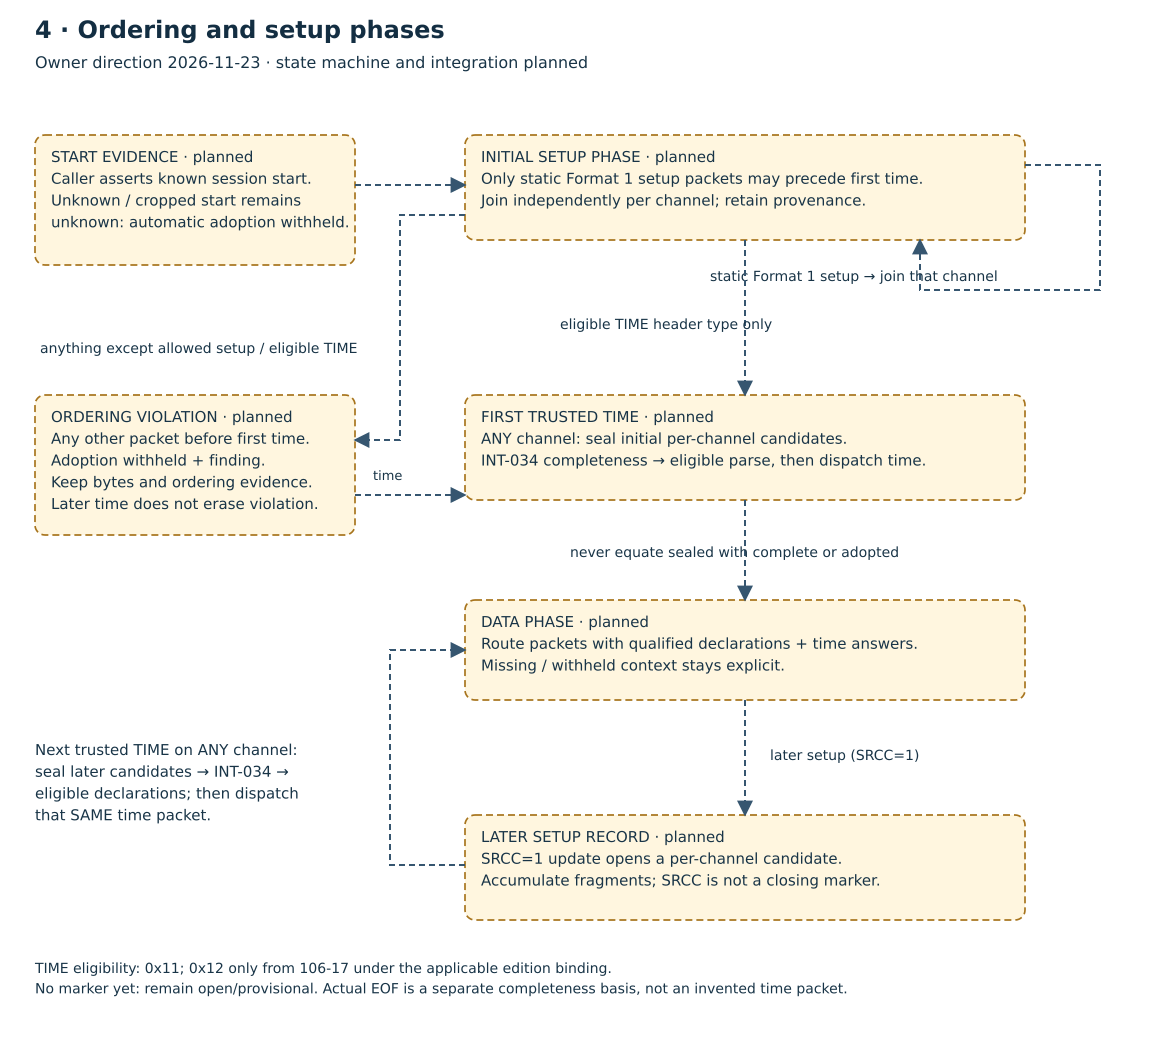
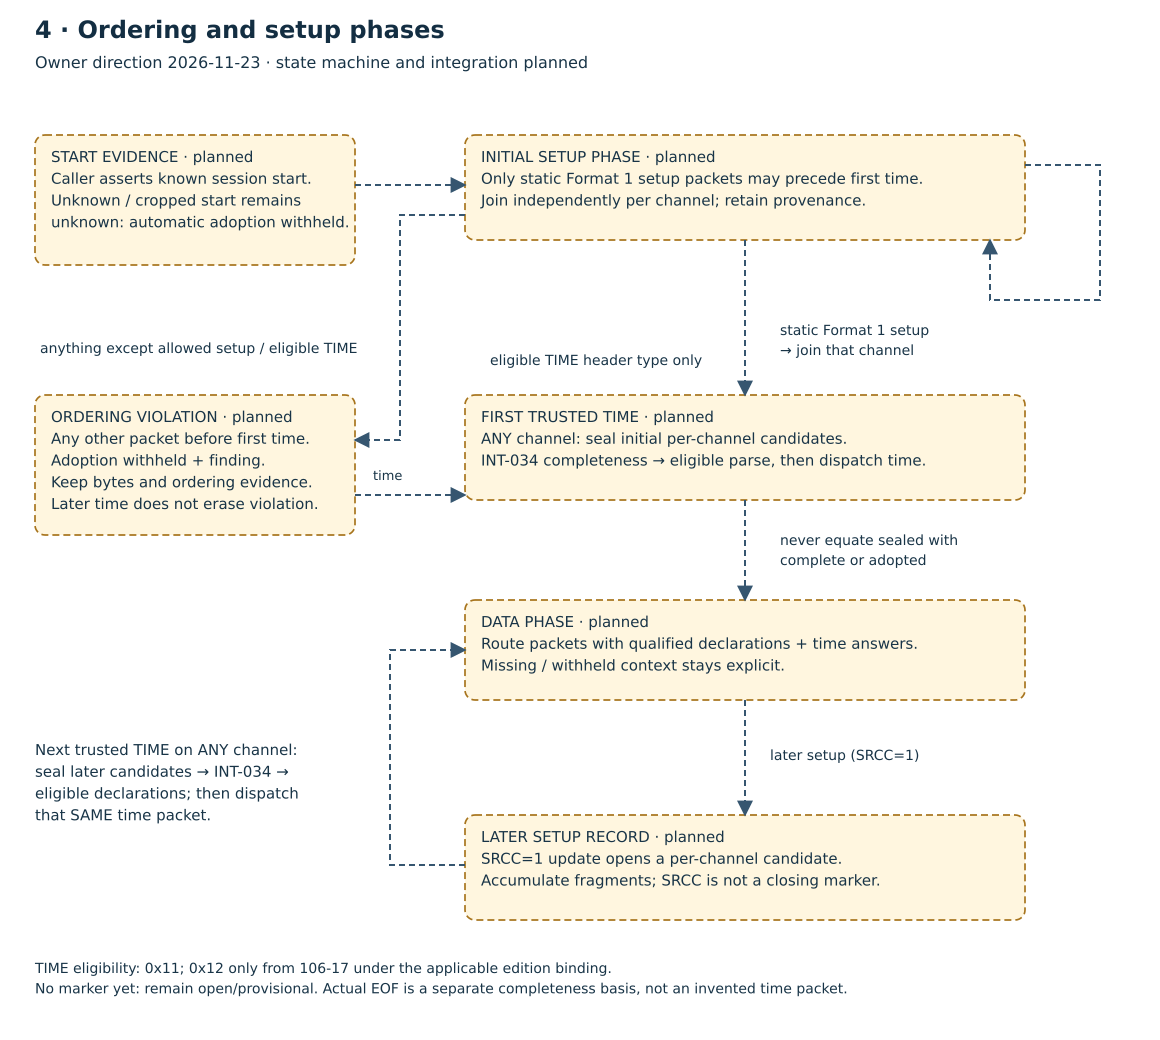
docs: clarify PacketFacts decision and clear diagram labels

Changed region(s): [[0.4345, 0.3077, 0.8069, 0.3692], [0.4966, 0.4923, 0.8069, 0.5538], [0.6207, 0.2154, 0.869, 0.2769]]

diff --git a/src/architecture/pipeline.md b/src/architecture/pipeline.md
@@ -10,7 +10,7 @@ this page does not silently update its historical evidence.
 The owner has decided the layer responsibilities, one shared reader, per-channel
 setup assembly, initial and mid-recording closure by time packets, and initial
 ordering checks. The **coordinator-recommended** one-pass orchestrator is a
-planned design. The owner has also decided that the plain packet-facts type lives in
+planned design. The **owner decision of 2026-11-23** fixes the plain packet-facts type location in
 `irig106-types`: core produces the facts, the orchestrator passes them on, and
 TMATS consumes them without depending on core. The type and its integration
 remain **planned** until implemented.
@@ -35,8 +35,9 @@ One reader in core is the target: this does not claim every existing consumer
 has already removed its duplicate reader.
 
 Time remains a leaf library depending only on types (ADR-0005). The owner-decided
-TMATS leaf boundary uses a plain packet-facts type in `irig106-types`
-(**planned**). Core produces that shared value, the orchestrator passes it on,
+TMATS leaf boundary uses `PacketFacts` (**planned**), a header-facts-only type
+in `irig106-types`. The name is diagram notation, not a released API. This
+location is decided, not an open option (owner decision, 2026-11-23). Core produces that shared value, the orchestrator passes it on,
 and TMATS consumes it. TMATS stays independent of core; the orchestrator does
 not define a competing packet-facts type. No direct TMATS-to-core dependency
 is selected. Time gains no dependency on core or TMATS. Static dependencies
@@ -136,6 +137,12 @@ known clean recording start. Record findings and preserve the bytes when
 authoritative automatic adoption is withheld.
 
 ## Sources and authority
+
+**Decision citation — owner, 2026-11-23, assignment update:** “the plain
+'packet facts' type lives in irig106-types”. The same owner update specifies
+that core produces the facts, the orchestrator passes them on, and TMATS consumes
+them while staying independent of core. This is the authority for the decided
+boundary above; the type remains planned until implemented.
 
 Source inspection on 2026-11-23; no sibling builds or tests were run for this page.
 The owner request of that date is authority for the new closure/ordering decisions
